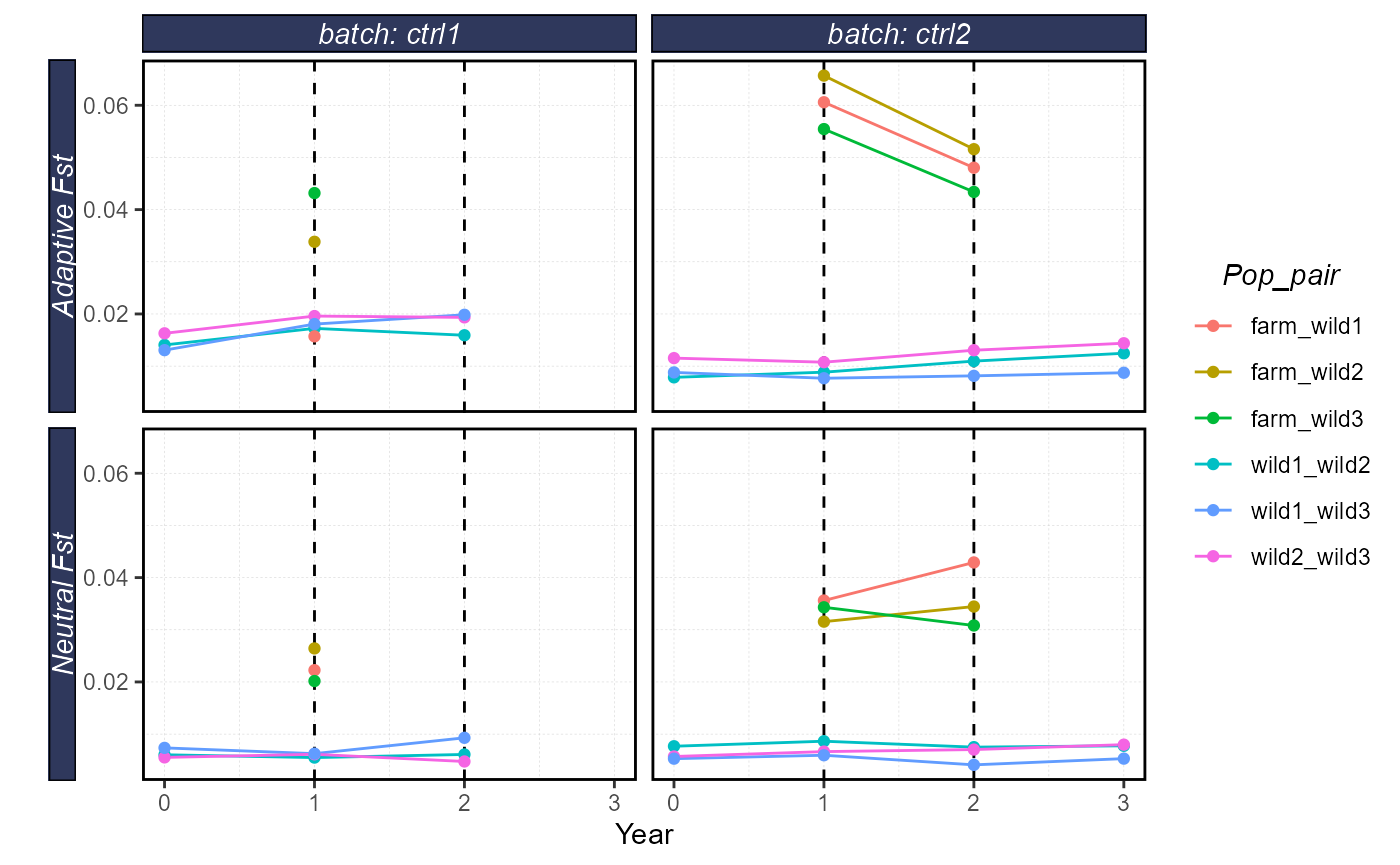
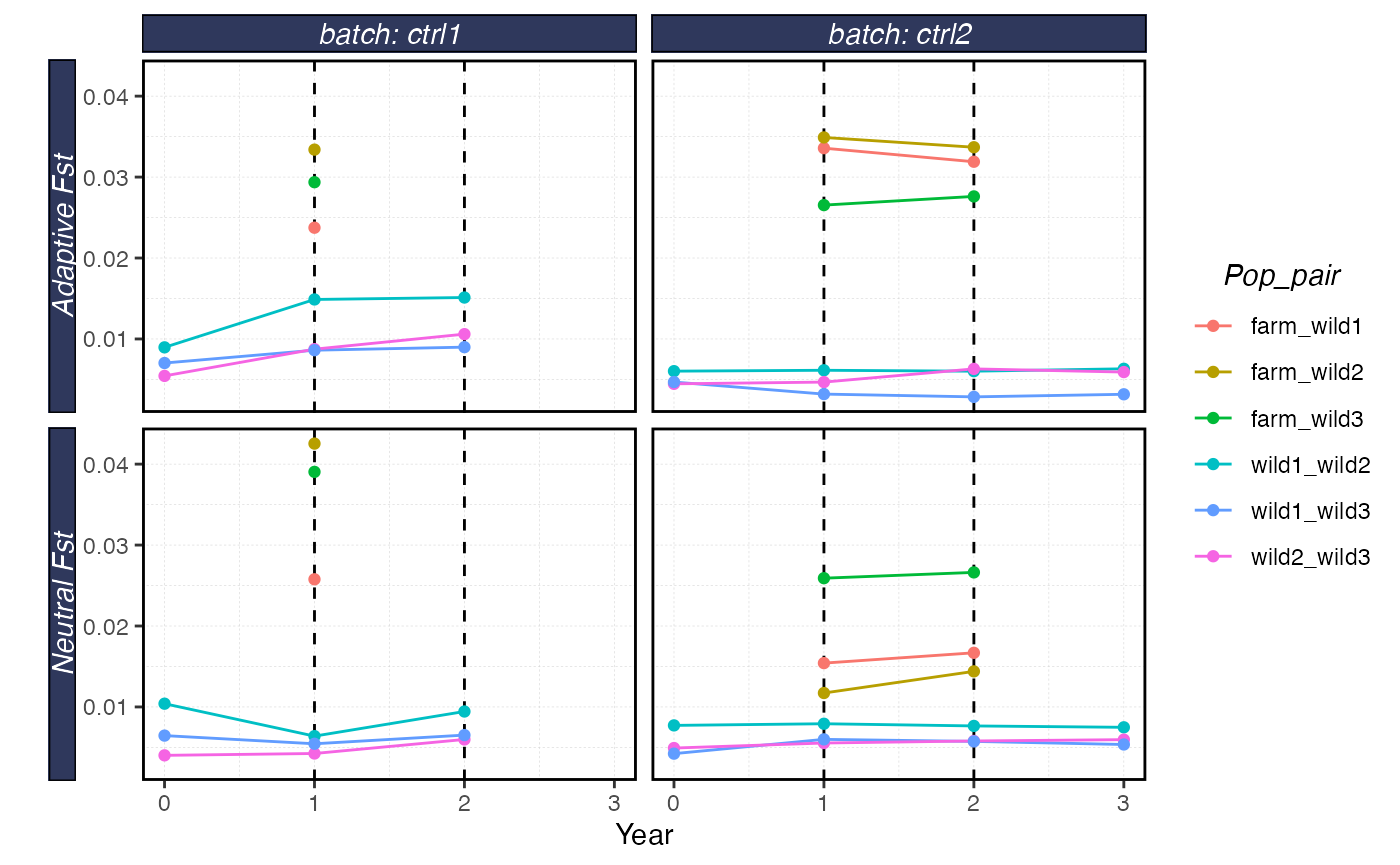
updating batch folder vigtnette

diff --git a/docs/articles/ctrlfile.html b/docs/articles/ctrlfile.html
@@ -61,10 +61,10 @@
   </a>
   <ul class="dropdown-menu" role="menu">
 <li>
-      <a href="../articles/ctrlfile.html">Running with a control file</a>
+      <a href="../articles/ctrl_folder.html">Running a control file folder</a>
     </li>
     <li>
-      <a href="../articles/ctrl_folder.html">Running a control file folder</a>
+      <a href="../articles/ctrlfile.html">Running with a control file</a>
     </li>
     <li>
       <a href="../articles/shellfishrisk.html">Running multiple batches</a>
@@ -89,7 +89,7 @@
 
       
 
-      </header><script src="ctrlfile_files/header-attrs-2.10/header-attrs.js"></script><div class="row">
+      </header><script src="ctrlfile_files/header-attrs-2.9/header-attrs.js"></script><div class="row">
   <div class="col-md-9 contents">
     <div class="page-header toc-ignore">
       <h1 data-toc-skip>Running with a control file</h1>
@@ -120,21 +120,21 @@
 <code class="sourceCode R"><span class="va">results</span> <span class="op">&lt;-</span> <span class="fu"><a href="../reference/serve_shellfish.html">serve_shellfish</a></span><span class="op">(</span>batches <span class="op">=</span> <span class="va">batch</span><span class="op">)</span> <span class="co"># read the results stored in .txt files into a list object</span>
 
 <span class="va">results</span><span class="op">$</span><span class="va">survival</span>
-<span class="co">#&gt; # A tibble: 11 x 6</span>
+<span class="co">#&gt; # A tibble: 11 × 6</span>
 <span class="co">#&gt; # Groups:   batch, coreid, Rep [1]</span>
 <span class="co">#&gt;    batch       coreid   Rep   age survival survivorship</span>
 <span class="co">#&gt;    &lt;chr&gt;        &lt;int&gt; &lt;int&gt; &lt;dbl&gt;    &lt;dbl&gt;        &lt;dbl&gt;</span>
-<span class="co">#&gt;  1 ctrl_demo_2      1     0     0   0.521      1       </span>
-<span class="co">#&gt;  2 ctrl_demo_2      1     0     1   0.397      0.521   </span>
-<span class="co">#&gt;  3 ctrl_demo_2      1     0     2   0.0483     0.207   </span>
-<span class="co">#&gt;  4 ctrl_demo_2      1     0     3   0.784      0.00999 </span>
-<span class="co">#&gt;  5 ctrl_demo_2      1     0     4   0.68       0.00783 </span>
-<span class="co">#&gt;  6 ctrl_demo_2      1     0     5   0.680      0.00533 </span>
-<span class="co">#&gt;  7 ctrl_demo_2      1     0     6   0.658      0.00362 </span>
-<span class="co">#&gt;  8 ctrl_demo_2      1     0     7   0.545      0.00238 </span>
-<span class="co">#&gt;  9 ctrl_demo_2      1     0     8   0.697      0.00130 </span>
-<span class="co">#&gt; 10 ctrl_demo_2      1     0     9   0.230      0.000906</span>
-<span class="co">#&gt; 11 ctrl_demo_2      1     0    10   0          0.000208</span>
+<span class="co">#&gt;  1 ctrl_demo_2      1     0     0   0.536      1       </span>
+<span class="co">#&gt;  2 ctrl_demo_2      1     0     1   0.393      0.536   </span>
+<span class="co">#&gt;  3 ctrl_demo_2      1     0     2   0.0429     0.211   </span>
+<span class="co">#&gt;  4 ctrl_demo_2      1     0     3   0.841      0.00903 </span>
+<span class="co">#&gt;  5 ctrl_demo_2      1     0     4   0.702      0.00759 </span>
+<span class="co">#&gt;  6 ctrl_demo_2      1     0     5   0.633      0.00533 </span>
+<span class="co">#&gt;  7 ctrl_demo_2      1     0     6   0.642      0.00338 </span>
+<span class="co">#&gt;  8 ctrl_demo_2      1     0     7   0.644      0.00217 </span>
+<span class="co">#&gt;  9 ctrl_demo_2      1     0     8   0.685      0.00140 </span>
+<span class="co">#&gt; 10 ctrl_demo_2      1     0     9   0.205      0.000957</span>
+<span class="co">#&gt; 11 ctrl_demo_2      1     0    10   0          0.000196</span>
 
 <span class="fu"><a href="../reference/plot_shellfish.html">plot_shellfish</a></span><span class="op">(</span><span class="va">results</span>, type <span class="op">=</span> <span class="st">"rvars"</span><span class="op">)</span></code></pre></div>
 <p><img src="ctrlfile_files/figure-html/unnamed-chunk-4-1.png" width="700"></p>

diff --git a/docs/articles/ctrl_folder.html b/docs/articles/ctrl_folder.html
@@ -61,10 +61,10 @@
   </a>
   <ul class="dropdown-menu" role="menu">
 <li>
-      <a href="../articles/ctrlfile.html">Running with a control file</a>
+      <a href="../articles/ctrl_folder.html">Running a control file folder</a>
     </li>
     <li>
-      <a href="../articles/ctrl_folder.html">Running a control file folder</a>
+      <a href="../articles/ctrlfile.html">Running with a control file</a>
     </li>
     <li>
       <a href="../articles/shellfishrisk.html">Running multiple batches</a>
@@ -89,7 +89,7 @@
 
       
 
-      </header><script src="ctrl_folder_files/header-attrs-2.10/header-attrs.js"></script><div class="row">
+      </header><script src="ctrl_folder_files/header-attrs-2.9/header-attrs.js"></script><div class="row">
   <div class="col-md-9 contents">
     <div class="page-header toc-ignore">
       <h1 data-toc-skip>Running a control file folder</h1>
@@ -141,21 +141,21 @@
                            results_dir <span class="op">=</span> <span class="st">"results"</span><span class="op">)</span> <span class="co"># read the results stored in .txt files into a list object</span>
 
 <span class="va">results</span><span class="op">$</span><span class="va">survival</span>
-<span class="co">#&gt; # A tibble: 22 x 6</span>
+<span class="co">#&gt; # A tibble: 22 × 6</span>
 <span class="co">#&gt; # Groups:   batch, coreid, Rep [2]</span>
 <span class="co">#&gt;    batch coreid   Rep   age survival survivorship</span>
 <span class="co">#&gt;    &lt;chr&gt;  &lt;int&gt; &lt;int&gt; &lt;dbl&gt;    &lt;dbl&gt;        &lt;dbl&gt;</span>
-<span class="co">#&gt;  1 ctrl1      1     0     0   0.523      1       </span>
-<span class="co">#&gt;  2 ctrl1      1     0     1   0.394      0.523   </span>
-<span class="co">#&gt;  3 ctrl1      1     0     2   0.0506     0.206   </span>
-<span class="co">#&gt;  4 ctrl1      1     0     3   0.736      0.0104  </span>
-<span class="co">#&gt;  5 ctrl1      1     0     4   0.652      0.00769 </span>
-<span class="co">#&gt;  6 ctrl1      1     0     5   0.667      0.00501 </span>
-<span class="co">#&gt;  7 ctrl1      1     0     6   0.686      0.00334 </span>
-<span class="co">#&gt;  8 ctrl1      1     0     7   0.53       0.00229 </span>
-<span class="co">#&gt;  9 ctrl1      1     0     8   0.761      0.00121 </span>
-<span class="co">#&gt; 10 ctrl1      1     0     9   0.213      0.000925</span>
-<span class="co">#&gt; # ... with 12 more rows</span>
+<span class="co">#&gt;  1 ctrl1      1     0     0   0.525      1       </span>
+<span class="co">#&gt;  2 ctrl1      1     0     1   0.394      0.525   </span>
+<span class="co">#&gt;  3 ctrl1      1     0     2   0.0450     0.207   </span>
+<span class="co">#&gt;  4 ctrl1      1     0     3   0.792      0.00931 </span>
+<span class="co">#&gt;  5 ctrl1      1     0     4   0.727      0.00737 </span>
+<span class="co">#&gt;  6 ctrl1      1     0     5   0.653      0.00536 </span>
+<span class="co">#&gt;  7 ctrl1      1     0     6   0.695      0.00350 </span>
+<span class="co">#&gt;  8 ctrl1      1     0     7   0.6        0.00243 </span>
+<span class="co">#&gt;  9 ctrl1      1     0     8   0.636      0.00146 </span>
+<span class="co">#&gt; 10 ctrl1      1     0     9   0.235      0.000929</span>
+<span class="co">#&gt; # … with 12 more rows</span>
 
 <span class="fu"><a href="../reference/plot_shellfish.html">plot_shellfish</a></span><span class="op">(</span><span class="va">results</span>, type <span class="op">=</span> <span class="st">"rvars"</span><span class="op">)</span></code></pre></div>
 <p><img src="ctrl_folder_files/figure-html/unnamed-chunk-3-1.png" width="700"></p>

diff --git a/docs/reference/run_ctrl_folder.html b/docs/reference/run_ctrl_folder.html
@@ -6,7 +6,7 @@
 <meta http-equiv="X-UA-Compatible" content="IE=edge">
 <meta name="viewport" content="width=device-width, initial-scale=1.0">
 
-<title>Articles • shellfishrisks</title>
+<title>Run all control files in a folder — run_ctrl_folder • shellfishrisks</title>
 
 <!-- favicons -->
 <link rel="icon" type="image/png" sizes="16x16" href="../favicon-16x16.png">
@@ -46,7 +46,8 @@
 
 
 
-<meta property="og:title" content="Articles" />
+<meta property="og:title" content="Run all control files in a folder — run_ctrl_folder" />
+<meta property="og:description" content="Run all control files in a folder" />
 <meta property="og:image" content="/logo.png" />
 
 
@@ -66,7 +67,7 @@
   </head>
 
   <body data-spy="scroll" data-target="#toc">
-    <div class="container template-article-index">
+    <div class="container template-reference-topic">
       <header>
       <div class="navbar navbar-default navbar-fixed-top" role="navigation">
   <div class="container">
@@ -133,22 +134,48 @@
 <div class="row">
   <div class="col-md-9 contents">
     <div class="page-header">
-      <h1>Articles</h1>
+    <h1>Run all control files in a folder</h1>
+    <small class="dont-index">Source: <a href='https://github.com/nwfsc-cb/shellfish-genetic-risks/blob/master/R/run_ctrl_folder.R'><code>R/run_ctrl_folder.R</code></a></small>
+    <div class="hidden name"><code>run_ctrl_folder.Rd</code></div>
     </div>
 
-    <div class="section ">
-      <h3>All vignettes</h3>
-      <p class="section-desc"></p>
-
-      <dl>
-        <dt><a href="ctrl_folder.html">Running a control file folder</a></dt>
-        <dd></dt>
-        <dt><a href="ctrlfile.html">Running with a control file</a></dt>
-        <dd></dt>
-        <dt><a href="shellfishrisk.html">Running multiple batches</a></dt>
-        <dd></dt>
-      </dl>
+    <div class="ref-description">
+    <p>Run all control files in a folder</p>
     </div>
+
+    <pre class="usage"><span class='fu'>run_ctrl_folder</span><span class='op'>(</span><span class='va'>ctrl_folder</span>, reps <span class='op'>=</span> <span class='fl'>1</span>, cores <span class='op'>=</span> <span class='fl'>1</span><span class='op'>)</span></pre>
+
+    <h2 class="hasAnchor" id="arguments"><a class="anchor" href="#arguments"></a>Arguments</h2>
+    <table class="ref-arguments">
+    <colgroup><col class="name" /><col class="desc" /></colgroup>
+    <tr>
+      <th>ctrl_folder</th>
+      <td><p>the location of the folder containing the control files</p></td>
+    </tr>
+    <tr>
+      <th>reps</th>
+      <td><p>the number of reps per control file</p></td>
+    </tr>
+    <tr>
+      <th>cores</th>
+      <td><p>the number of cores. Set to greater than 1 to run in parallel</p></td>
+    </tr>
+    </table>
+
+
+    <h2 class="hasAnchor" id="examples"><a class="anchor" href="#examples"></a>Examples</h2>
+    <pre class="examples"><div class='input'><span class='kw'>if</span> <span class='op'>(</span><span class='cn'>FALSE</span><span class='op'>)</span> <span class='op'>{</span>
+
+<span class='fu'>run_ctrl_folder</span><span class='op'>(</span><span class='st'>"my_control_files"</span>, cores <span class='op'>=</span> <span class='fl'>6</span><span class='op'>)</span>
+
+<span class='op'>}</span>
+
+</div></pre>
+  </div>
+  <div class="col-md-3 hidden-xs hidden-sm" id="pkgdown-sidebar">
+    <nav id="toc" data-toggle="toc" class="sticky-top">
+      <h2 data-toc-skip>Contents</h2>
+    </nav>
   </div>
 </div>
 

diff --git a/docs/articles/shellfishrisk.html b/docs/articles/shellfishrisk.html
@@ -61,6 +61,9 @@
   </a>
   <ul class="dropdown-menu" role="menu">
 <li>
+      <a href="../articles/ctrl_folder.html">Running a control file folder</a>
+    </li>
+    <li>
       <a href="../articles/ctrlfile.html">Running with a control file</a>
     </li>
     <li>
@@ -153,20 +156,20 @@
                            results_dir <span class="op">=</span> <span class="fu">here</span><span class="fu">::</span><span class="fu"><a href="https://here.r-lib.org//reference/here.html">here</a></span><span class="op">(</span><span class="st">"vignettes"</span>,<span class="st">"results"</span><span class="op">)</span><span class="op">)</span> <span class="co"># read the results stored in .txt files into a list object</span>
 
 <span class="va">results</span><span class="op">$</span><span class="va">survival</span>
-<span class="co">#&gt; # A tibble: 22 × 4</span>
-<span class="co">#&gt; # Groups:   batch [2]</span>
-<span class="co">#&gt;    batch   age survival survivorship</span>
-<span class="co">#&gt;    &lt;chr&gt; &lt;dbl&gt;    &lt;dbl&gt;        &lt;dbl&gt;</span>
-<span class="co">#&gt;  1 eggs2     0   0.742        1     </span>
-<span class="co">#&gt;  2 eggs2     1   0.734        0.742 </span>
-<span class="co">#&gt;  3 eggs2     2   0.709        0.545 </span>
-<span class="co">#&gt;  4 eggs2     3   0.730        0.386 </span>
-<span class="co">#&gt;  5 eggs2     4   0.728        0.282 </span>
-<span class="co">#&gt;  6 eggs2     5   0.718        0.205 </span>
-<span class="co">#&gt;  7 eggs2     6   0.714        0.147 </span>
-<span class="co">#&gt;  8 eggs2     7   0.712        0.105 </span>
-<span class="co">#&gt;  9 eggs2     8   0.688        0.0749</span>
-<span class="co">#&gt; 10 eggs2     9   0.0276       0.0515</span>
+<span class="co">#&gt; # A tibble: 22 × 6</span>
+<span class="co">#&gt; # Groups:   batch, coreid, Rep [2]</span>
+<span class="co">#&gt;    batch coreid   Rep   age survival survivorship</span>
+<span class="co">#&gt;    &lt;chr&gt;  &lt;int&gt; &lt;int&gt; &lt;dbl&gt;    &lt;dbl&gt;        &lt;dbl&gt;</span>
+<span class="co">#&gt;  1 eggs2      1     0     0   0.743        1     </span>
+<span class="co">#&gt;  2 eggs2      1     0     1   0.740        0.743 </span>
+<span class="co">#&gt;  3 eggs2      1     0     2   0.707        0.550 </span>
+<span class="co">#&gt;  4 eggs2      1     0     3   0.732        0.389 </span>
+<span class="co">#&gt;  5 eggs2      1     0     4   0.725        0.284 </span>
+<span class="co">#&gt;  6 eggs2      1     0     5   0.720        0.206 </span>
+<span class="co">#&gt;  7 eggs2      1     0     6   0.715        0.148 </span>
+<span class="co">#&gt;  8 eggs2      1     0     7   0.699        0.106 </span>
+<span class="co">#&gt;  9 eggs2      1     0     8   0.697        0.0743</span>
+<span class="co">#&gt; 10 eggs2      1     0     9   0.0371       0.0518</span>
 <span class="co">#&gt; # … with 12 more rows</span>
 
 <span class="fu"><a href="../reference/plot_shellfish.html">plot_shellfish</a></span><span class="op">(</span><span class="va">results</span>, type <span class="op">=</span> <span class="st">"rvars"</span><span class="op">)</span></code></pre></div>

diff --git a/docs/index.html b/docs/index.html
@@ -61,6 +61,9 @@
   </a>
   <ul class="dropdown-menu" role="menu">
 <li>
+      <a href="articles/ctrl_folder.html">Running a control file folder</a>
+    </li>
+    <li>
       <a href="articles/ctrlfile.html">Running with a control file</a>
     </li>
     <li>
@@ -156,9 +159,9 @@
 <div class="sourceCode" id="cb6"><pre class="downlit sourceCode r">
 <code class="sourceCode R"><span class="co"># Run shellfishrisk model: this takes about 20min with these </span>
 <span class="co"># demonstration settings</span>
-<span class="fu">shellfishrisk</span><span class="op">(</span>
+<span class="fu">shellfishrisk_reps</span><span class="op">(</span>
   batch <span class="op">=</span> <span class="st">"demo1"</span>,
-  reps <span class="op">=</span> <span class="va">reps</span>,
+  reps <span class="op">=</span> <span class="fl">10</span>,
   coreid <span class="op">=</span> <span class="va">coreid</span>,
   pre_farm_years <span class="op">=</span> <span class="va">pre_farm_years</span>,
   farm_years <span class="op">=</span> <span class="va">farm_years</span>,
@@ -250,14 +253,18 @@
 <span class="co">#&gt;   ..$ Rvar  : chr [1:3] "Fst" "Fst" "Fst"</span>
 <span class="co">#&gt;   ..$ Value : num [1:3] 0.000103 0.00032 -0.000164</span>
 <span class="co">#&gt;   ..$ batch : chr [1:3] "demo1" "demo1" "demo1"</span>
-<span class="co">#&gt;  $ survival        : grouped_df [11 × 4] (S3: grouped_df/tbl_df/tbl/data.frame)</span>
+<span class="co">#&gt;  $ survival        : grouped_df [11 × 6] (S3: grouped_df/tbl_df/tbl/data.frame)</span>
 <span class="co">#&gt;   ..$ batch       : chr [1:11] "demo1" "demo1" "demo1" "demo1" ...</span>
+<span class="co">#&gt;   ..$ coreid      : int [1:11] 1 1 1 1 1 1 1 1 1 1 ...</span>
+<span class="co">#&gt;   ..$ Rep         : int [1:11] 0 0 0 0 0 0 0 0 0 0 ...</span>
 <span class="co">#&gt;   ..$ age         : num [1:11] 0 1 2 3 4 5 6 7 8 9 ...</span>
 <span class="co">#&gt;   ..$ survival    : num [1:11] 0.5304 0.3782 0.0432 0.8119 0.6364 ...</span>
 <span class="co">#&gt;   ..$ survivorship: num [1:11] 1 0.53045 0.20059 0.00866 0.00703 ...</span>
-<span class="co">#&gt;   ..- attr(*, "groups")= tibble [1 × 2] (S3: tbl_df/tbl/data.frame)</span>
-<span class="co">#&gt;   .. ..$ batch: chr "demo1"</span>
-<span class="co">#&gt;   .. ..$ .rows: list&lt;int&gt; [1:1] </span>
+<span class="co">#&gt;   ..- attr(*, "groups")= tibble [1 × 4] (S3: tbl_df/tbl/data.frame)</span>
+<span class="co">#&gt;   .. ..$ batch : chr "demo1"</span>
+<span class="co">#&gt;   .. ..$ coreid: int 1</span>
+<span class="co">#&gt;   .. ..$ Rep   : int 0</span>
+<span class="co">#&gt;   .. ..$ .rows : list&lt;int&gt; [1:1] </span>
 <span class="co">#&gt;   .. .. ..$ : int [1:11] 1 2 3 4 5 6 7 8 9 10 ...</span>
 <span class="co">#&gt;   .. .. ..@ ptype: int(0) </span>
 <span class="co">#&gt;   .. ..- attr(*, ".drop")= logi TRUE</span>

diff --git a/docs/reference/index.html b/docs/reference/index.html
@@ -102,6 +102,9 @@
   </a>
   <ul class="dropdown-menu" role="menu">
     <li>
+      <a href="../articles/ctrl_folder.html">Running a control file folder</a>
+    </li>
+    <li>
       <a href="../articles/ctrlfile.html">Running with a control file</a>
     </li>
     <li>
@@ -177,6 +180,12 @@
           <p><code><a href="plot_shellfish.html">plot_shellfish()</a></code> </p>
         </td>
         <td><p>Plot Shellfish</p></td>
+      </tr><tr>
+        
+        <td>
+          <p><code><a href="run_ctrl_folder.html">run_ctrl_folder()</a></code> </p>
+        </td>
+        <td><p>Run all control files in a folder</p></td>
       </tr><tr>
         
         <td>

diff --git a/docs/articles/ctrl_folder_files/header-attrs-2.9/header-attrs.js b/docs/articles/ctrl_folder_files/header-attrs-2.9/header-attrs.js
@@ -1,0 +1,12 @@
+// Pandoc 2.9 adds attributes on both header and div. We remove the former (to
+// be compatible with the behavior of Pandoc < 2.8).
+document.addEventListener('DOMContentLoaded', function(e) {
+  var hs = document.querySelectorAll("div.section[class*='level'] > :first-child");
+  var i, h, a;
+  for (i = 0; i < hs.length; i++) {
+    h = hs[i];
+    if (!/^h[1-6]$/i.test(h.tagName)) continue;  // it should be a header h1-h6
+    a = h.attributes;
+    while (a.length > 0) h.removeAttribute(a[0].name);
+  }
+});

diff --git a/docs/reference/generate_ctrl_file.html b/docs/reference/generate_ctrl_file.html
@@ -103,6 +103,9 @@
   </a>
   <ul class="dropdown-menu" role="menu">
     <li>
+      <a href="../articles/ctrl_folder.html">Running a control file folder</a>
+    </li>
+    <li>
       <a href="../articles/ctrlfile.html">Running with a control file</a>
     </li>
     <li>

diff --git a/docs/reference/install_pypkgs.html b/docs/reference/install_pypkgs.html
@@ -103,6 +103,9 @@
   </a>
   <ul class="dropdown-menu" role="menu">
     <li>
+      <a href="../articles/ctrl_folder.html">Running a control file folder</a>
+    </li>
+    <li>
       <a href="../articles/ctrlfile.html">Running with a control file</a>
     </li>
     <li>

diff --git a/docs/reference/load_shellfish.html b/docs/reference/load_shellfish.html
@@ -103,6 +103,9 @@
   </a>
   <ul class="dropdown-menu" role="menu">
     <li>
+      <a href="../articles/ctrl_folder.html">Running a control file folder</a>
+    </li>
+    <li>
       <a href="../articles/ctrlfile.html">Running with a control file</a>
     </li>
     <li>

diff --git a/docs/reference/pipe.html b/docs/reference/pipe.html
@@ -103,6 +103,9 @@
   </a>
   <ul class="dropdown-menu" role="menu">
     <li>
+      <a href="../articles/ctrl_folder.html">Running a control file folder</a>
+    </li>
+    <li>
       <a href="../articles/ctrlfile.html">Running with a control file</a>
     </li>
     <li>

diff --git a/docs/reference/plot_shellfish.html b/docs/reference/plot_shellfish.html
@@ -103,6 +103,9 @@
   </a>
   <ul class="dropdown-menu" role="menu">
     <li>
+      <a href="../articles/ctrl_folder.html">Running a control file folder</a>
+    </li>
+    <li>
       <a href="../articles/ctrlfile.html">Running with a control file</a>
     </li>
     <li>
